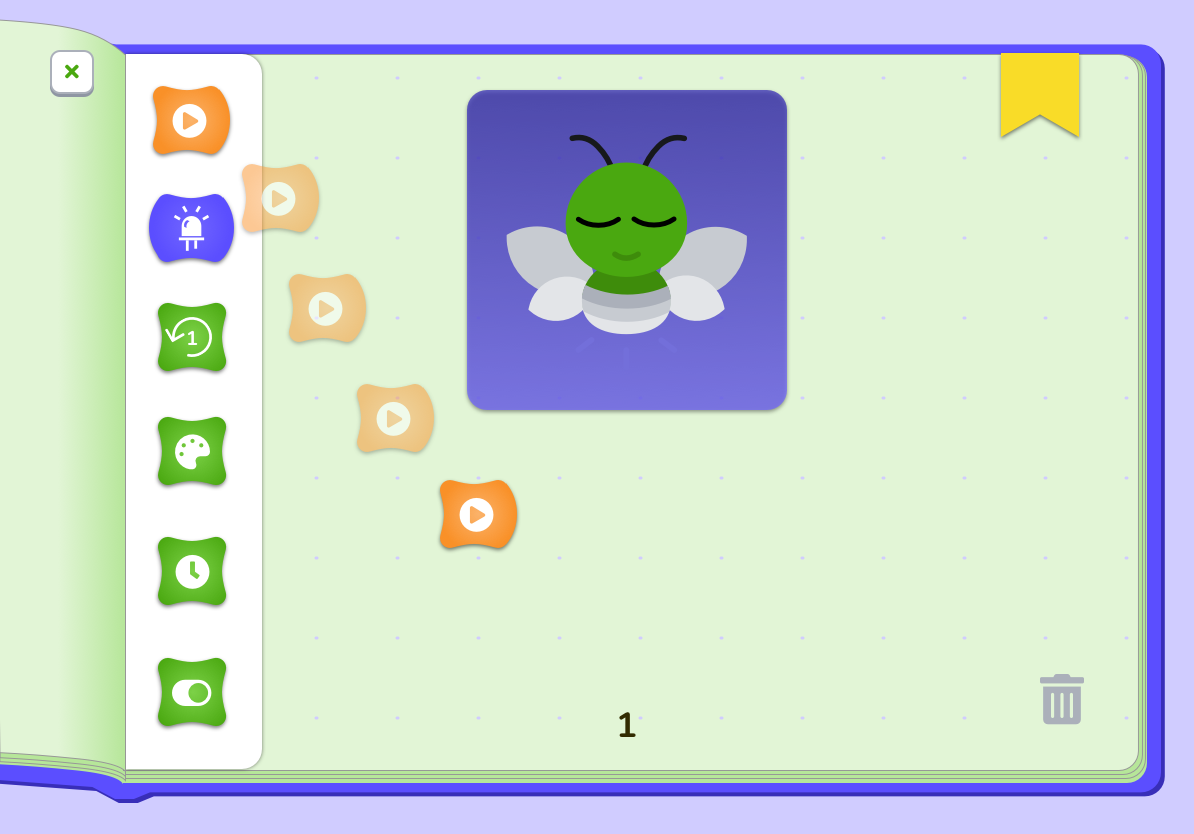
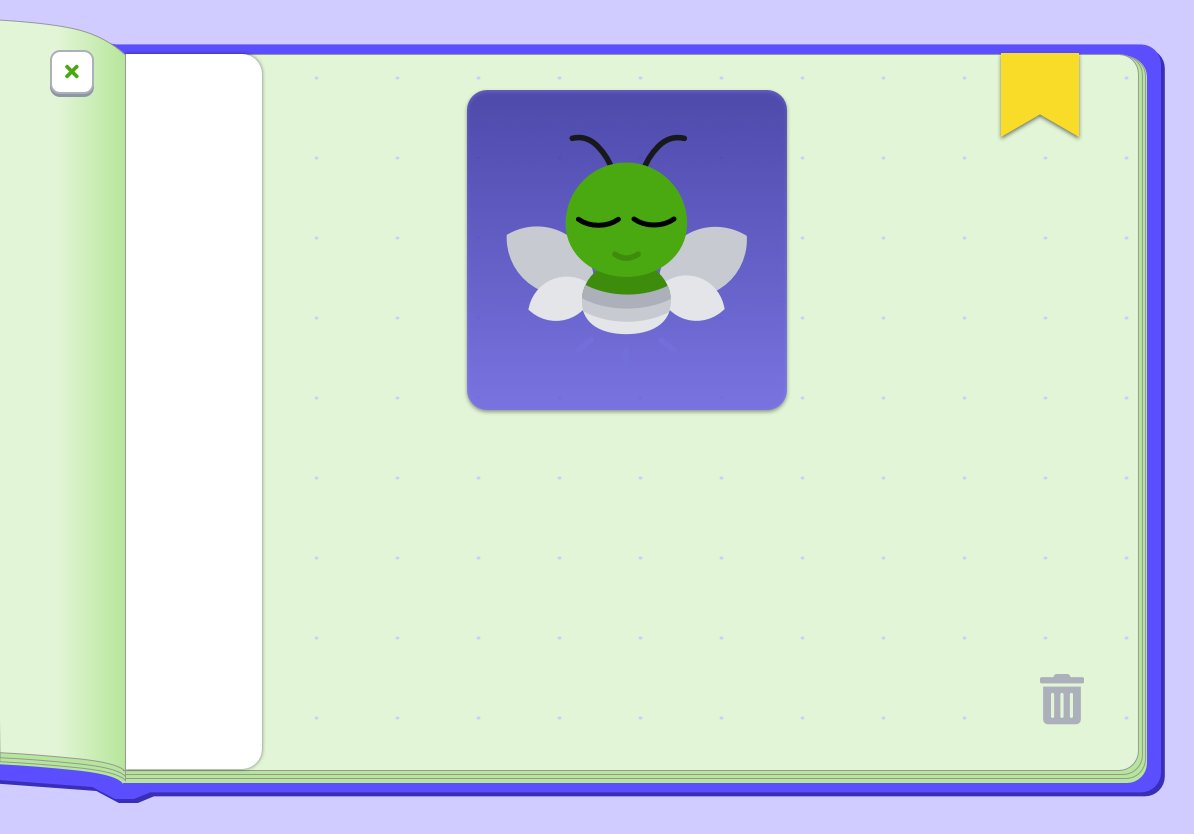
figured out somme more changes

diff --git a/firefly/src/components/tutorial/MultiStepTutorial.js b/firefly/src/components/tutorial/MultiStepTutorial.js
@@ -1,7 +1,14 @@
-import React, { useState } from "react";
+import React, { useState, useRef, useEffect } from "react";
 
 import { makeStyles } from "@material-ui/core/styles";
 
+import { TweenMax, TimelineMax } from "gsap/all";
+
+//button imports
+import playButtonIcon from "../../images/gameIcons/PlayCircleIcon.svg";
+import playButton from "../../images/gameIcons/StartBlock.svg";
+
+//screenshot background imports
 import screen1 from "../../assets/images/screen1.png";
 import screen2 from "../../assets/images/screen2.png";
 import screen3 from "../../assets/images/screen3.png";
@@ -48,86 +55,127 @@ const MultiStepTutorial = () => {
     },
     disabled: {
       opacity: "0.5"
+    },
+    playicon: {
+      position: "fixed",
+      top: "11.5%",
+      left: "12%"
+    },
+    playicon2: {
+      position: "fixed",
+      top: "24%",
+      left: "12%"
+    },
+    playicon3: {
+      position: "fixed",
+      top: "36%",
+      left: "12%"
     }
   }))();
 
+  let imgRef = useRef(null);
+  let imgRef2 = useRef(null);
+  let imgRef3 = useRef(null);
+
   const [step, setStep] = useState(0);
+  const prevStep = usePrevious(step);
 
-  switch (step) {
-    default:
-      return (
-        <div className={classes.root}>
-          <div className={classes.wrapper}>
-            <div className={classes.arrowcontainer}>
-              <img src={leftarrow} className={classes.disabled} />
-              <img src={rightarrow} onClick={() => setStep(step + 1)} />
-            </div>
-            <img className={classes.image} src={screen1} />
-          </div>
-        </div>
-      );
-    case 1:
-      return (
-        <div className={classes.root}>
-          <div className={classes.wrapper}>
-            <div className={classes.arrowcontainer}>
-              <img src={leftarrow} onClick={() => setStep(step - 1)} />
-              <img src={rightarrow} onClick={() => setStep(step + 1)} />
-            </div>
-            <img
-              className={classes.image}
-              src={screen2}
-            />
-          </div>
-        </div>
-      );
-    case 2:
-      return (
-        <div className={classes.root}>
-          <div className={classes.wrapper}>
-            <div className={classes.arrowcontainer}>
-              <img src={leftarrow} onClick={() => setStep(step - 1)} />
-              <img src={rightarrow} onClick={() => setStep(step + 1)} />
-            </div>
-            <img
-              className={classes.image}
-              src={screen3}
-            />
-          </div>
-        </div>
-      );
-    case 3:
-      return (
-        <div className={classes.root}>
-          <div className={classes.wrapper}>
-            <div className={classes.arrowcontainer}>
-              <img src={leftarrow} onClick={() => setStep(step - 1)} />
-              <img src={rightarrow} onClick={() => setStep(step + 1)} />
-            </div>
-            <img
-              className={classes.image}
-              src={screen4}
-            />
-          </div>
-        </div>
-      );
-    case 4:
-      return (
-        <div className={classes.root}>
-          <div className={classes.wrapper}>
-            <div className={classes.arrowcontainer}>
-              <img src={leftarrow} onClick={() => setStep(step - 1)} />
-              <img src={rightarrow} className={classes.disabled}/>
-            </div>
-            <img
-              className={classes.image}
-              src={screen5}
-              onClick={() => setStep(0)}
-            />
-          </div>
-        </div>
-      );
+  const [animation, setAnimation] = useState(null);
+
+  let tl = new TimelineMax();
+
+  let backgroundImage = [screen1];
+  // TweenMax.set(imgRef, {clearProps:"all"}),
+
+  function usePrevious(value) {
+    // The ref object is a generic container whose current property is mutable ...
+    // ... and can hold any value, similar to an instance property on a class
+    const ref = useRef();
+
+    // Store current value in ref
+    useEffect(() => {
+      ref.current = value;
+    }, [value]); // Only re-run if value changes
+
+    // Return previous value (happens before update in useEffect above)
+    return ref.current;
   }
-};
 
+  useEffect(() => {
+    if (prevStep > step) {
+      if (step === 0) {
+        setAnimation(TweenMax.set(imgRef, { clearProps: "all" }));
+        setAnimation(TweenMax.set(imgRef2, { clearProps: "all" }));
+      } else if (step === 1) {
+        console.log("test");
+        setAnimation(TweenMax.set(imgRef2, { clearProps: "all" }));
+      }
+    }
+
+    if (step === 0) {
+      setAnimation(
+        tl.to(imgRef, 1, {
+          x: 260,
+          y: 350,
+          delay: 1,
+          ease: "Sine.easeInOut"
+        })
+      );
+    } else if (step === 1) {
+      setAnimation(
+        tl.to(imgRef2, 1, {
+          x: 335,
+          y: 275,
+          delay: 1,
+          ease: "Sine.easeInOut"
+        })
+      );
+    }
+  }, [step]);
+
+  return (
+    <div className={classes.root}>
+      <div className={classes.wrapper}>
+        <div className={classes.toolbox}>
+          <div className={classes.playcontainer}>
+            <img
+              className={classes.playicon}
+              src={playButton}
+              ref={element => {
+                imgRef = element;
+              }}
+            />
+            <img
+              className={classes.playicon2}
+              src={playButton}
+              ref={element => {
+                imgRef2 = element;
+              }}
+            />
+            <img
+              className={classes.playicon3}
+              src={playButton}
+              ref={element => {
+                imgRef3 = element;
+              }}
+            />
+          </div>
+        </div>
+        <div className={classes.arrowcontainer}>
+          {step === 0 ? (
+            <img src={leftarrow} className={classes.disabled} />
+          ) : (
+            <img src={leftarrow} onClick={() => setStep(step - 1)} />
+          )}
+          {step === 4 ? (
+            <img src={rightarrow} className={classes.disabled} />
+          ) : (
+            <img src={rightarrow} onClick={() => setStep(step + 1)} />
+          )}
+        </div>
+        <img className={classes.image} src={backgroundImage} />
+      </div>
+    </div>
+  );
+};
 export default MultiStepTutorial;
